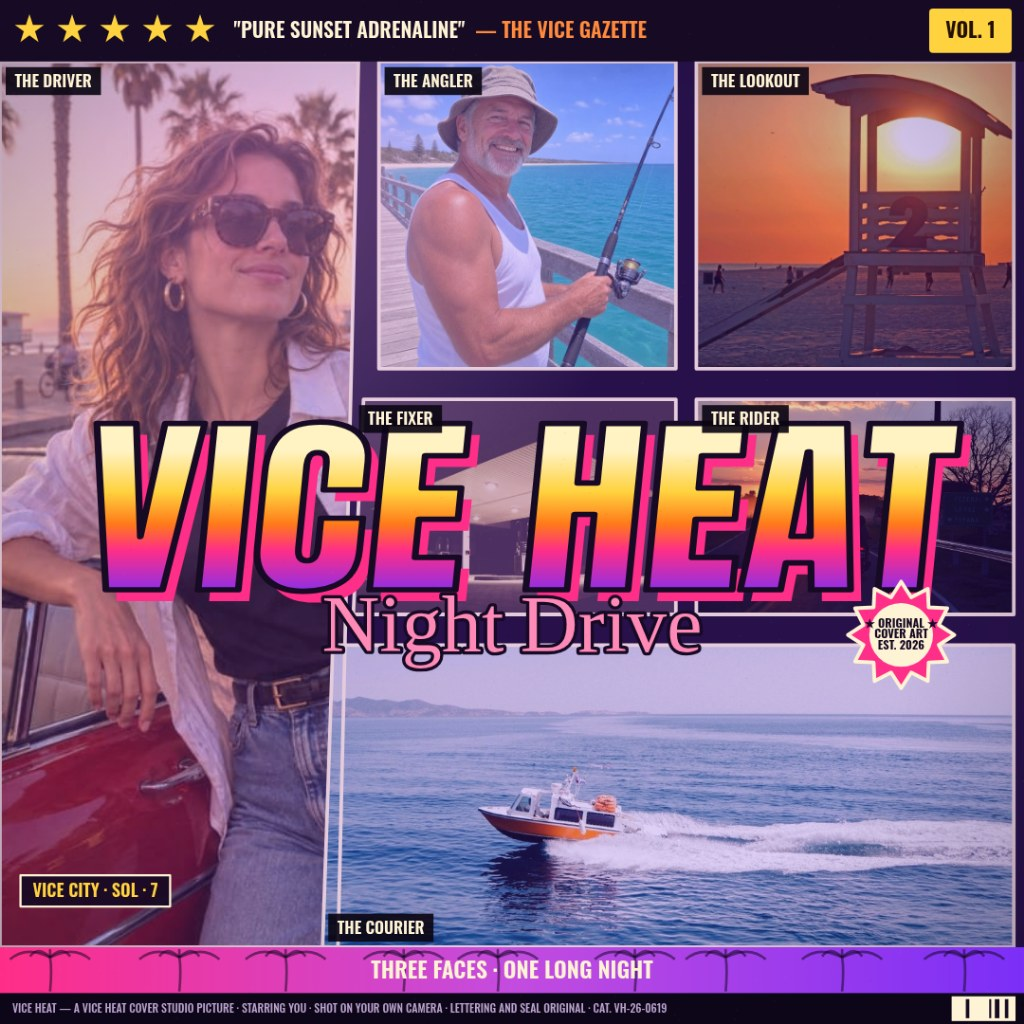
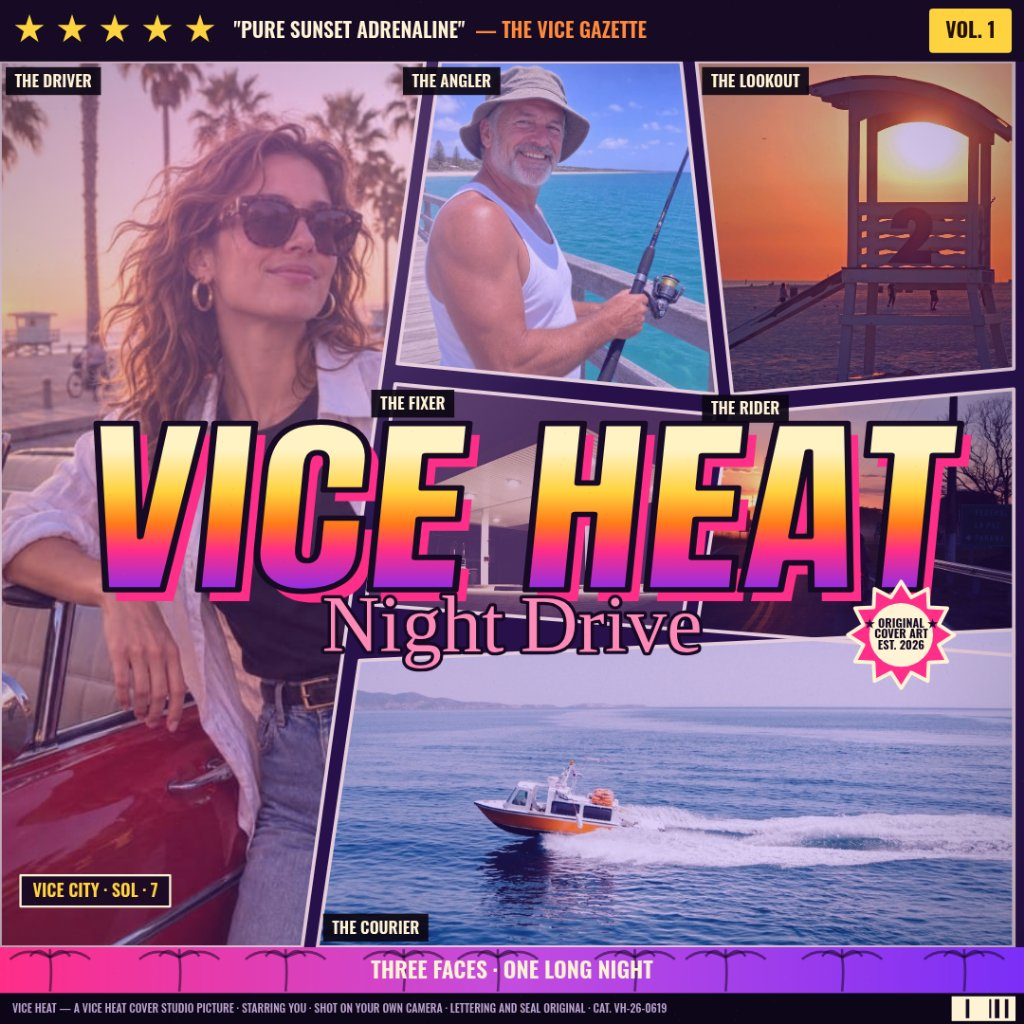
Cover v4.1: slanted trapezoid panels, no plain rectangles

diff --git a/app/src/cover.js b/app/src/cover.js
@@ -107,30 +107,30 @@ export function buildPanels(layout, size) {
   if (layout === 'hero') {
     if (size === 'portrait') {
       return [
-        panel(0, [[0, 0.06], [0.98, 0.06], [0.98, 0.62], [0, 0.62]]),
-        panel(1, [[0, 0.63], [0.48, 0.63], [0.48, 0.80], [0, 0.80]]),
-        panel(2, [[0.50, 0.63], [0.98, 0.63], [0.98, 0.80], [0.50, 0.80]]),
-        panel(3, [[0, 0.81], [0.48, 0.81], [0.48, 0.925], [0, 0.925]]),
-        panel(4, [[0.50, 0.81], [0.98, 0.81], [0.98, 0.925], [0.50, 0.925]]),
+        panel(0, [[0, 0.06], [0.98, 0.06], [0.98, 0.645], [0, 0.60]]),
+        panel(1, [[0, 0.618], [0.47, 0.64], [0.52, 0.815], [0, 0.79]]),
+        panel(2, [[0.485, 0.64], [0.98, 0.663], [0.98, 0.79], [0.535, 0.815]]),
+        panel(3, [[0, 0.808], [0.50, 0.832], [0.455, 0.925], [0, 0.925]]),
+        panel(4, [[0.515, 0.832], [0.98, 0.808], [0.98, 0.925], [0.47, 0.925]]),
       ];
     }
     return [
-      panel(0, [[0, 0.06], [0.35, 0.06], [0.33, 0.925], [0, 0.925]]),
-      panel(1, [[0.37, 0.06], [0.66, 0.06], [0.66, 0.36], [0.37, 0.36]]),
-      panel(2, [[0.68, 0.06], [0.99, 0.06], [0.99, 0.36], [0.68, 0.36]]),
-      panel(3, [[0.355, 0.39], [0.66, 0.39], [0.66, 0.60], [0.345, 0.60]]),
-      panel(4, [[0.68, 0.39], [0.99, 0.39], [0.99, 0.60], [0.68, 0.60]]),
-      panel(5, [[0.325, 0.63], [0.99, 0.63], [0.99, 0.925], [0.315, 0.925]], 'bottom', [0.5, 0.59]),
+      panel(0, [[0, 0.06], [0.415, 0.06], [0.295, 0.925], [0, 0.925]]),
+      panel(1, [[0.43, 0.06], [0.665, 0.06], [0.70, 0.385], [0.388, 0.355]]),
+      panel(2, [[0.68, 0.06], [0.99, 0.06], [0.99, 0.36], [0.715, 0.385]]),
+      panel(3, [[0.386, 0.375], [0.698, 0.405], [0.665, 0.615], [0.357, 0.59]]),
+      panel(4, [[0.713, 0.405], [0.99, 0.38], [0.99, 0.64], [0.68, 0.615]]),
+      panel(5, [[0.351, 0.645], [0.99, 0.615], [0.99, 0.925], [0.31, 0.925]], 'bottom', [0.5, 0.59]),
     ];
   }
   if (layout === 'comic6') {
     return [
-      panel(0, [[0, 0.06], [0.335, 0.06], [0.325, 0.48], [0, 0.48]]),
-      panel(1, [[0.345, 0.06], [0.665, 0.06], [0.655, 0.48], [0.335, 0.48]]),
-      panel(2, [[0.675, 0.06], [0.99, 0.06], [0.99, 0.48], [0.665, 0.48]]),
-      panel(3, [[0, 0.50], [0.325, 0.50], [0.315, 0.925], [0, 0.925]]),
-      panel(4, [[0.335, 0.50], [0.655, 0.50], [0.645, 0.925], [0.325, 0.925]]),
-      panel(5, [[0.665, 0.50], [0.99, 0.50], [0.99, 0.925], [0.655, 0.925]], 'bottom'),
+      panel(0, [[0, 0.06], [0.345, 0.06], [0.315, 0.483], [0, 0.47]]),
+      panel(1, [[0.36, 0.06], [0.675, 0.06], [0.705, 0.496], [0.33, 0.483]]),
+      panel(2, [[0.69, 0.06], [0.99, 0.06], [0.99, 0.51], [0.72, 0.496]]),
+      panel(3, [[0, 0.49], [0.325, 0.503], [0.36, 0.925], [0, 0.925]]),
+      panel(4, [[0.34, 0.503], [0.665, 0.516], [0.63, 0.925], [0.375, 0.925]]),
+      panel(5, [[0.68, 0.516], [0.99, 0.53], [0.99, 0.925], [0.645, 0.925]], 'bottom'),
     ];
   }
   if (layout === 'nine') {
@@ -152,23 +152,23 @@ export function buildPanels(layout, size) {
   }
   if (layout === 'two') {
     return [
-      panel(0, [[0, 0.06], [0.50, 0.06], [0.48, 0.925], [0, 0.925]]),
-      panel(1, [[0.52, 0.06], [1, 0.06], [1, 0.925], [0.50, 0.925]]),
+      panel(0, [[0, 0.06], [0.55, 0.06], [0.50, 0.50], [0.44, 0.925], [0, 0.925]]),
+      panel(1, [[0.565, 0.06], [1, 0.06], [1, 0.925], [0.455, 0.925], [0.515, 0.50]]),
     ];
   }
   if (layout === 'three') {
     return [
-      panel(0, [[0, 0.06], [0.50, 0.06], [0.48, 0.925], [0, 0.925]]),
-      panel(1, [[0.52, 0.06], [1, 0.06], [1, 0.48], [0.50, 0.48]]),
-      panel(2, [[0.50, 0.50], [1, 0.50], [1, 0.925], [0.52, 0.925]]),
+      panel(0, [[0, 0.06], [0.55, 0.06], [0.50, 0.50], [0.44, 0.925], [0, 0.925]]),
+      panel(1, [[0.565, 0.06], [1, 0.06], [1, 0.46], [0.515, 0.485]]),
+      panel(2, [[0.515, 0.505], [1, 0.48], [1, 0.925], [0.455, 0.925]]),
     ];
   }
   // four
   return [
-    panel(0, [[0, 0.06], [0.49, 0.06], [0.49, 0.48], [0, 0.48]]),
-    panel(1, [[0.51, 0.06], [1, 0.06], [1, 0.48], [0.51, 0.48]]),
-    panel(2, [[0, 0.50], [0.49, 0.50], [0.49, 0.925], [0, 0.925]]),
-    panel(3, [[0.51, 0.50], [1, 0.50], [1, 0.925], [0.51, 0.925]]),
+    panel(0, [[0, 0.06], [0.52, 0.06], [0.46, 0.49], [0, 0.465]]),
+    panel(1, [[0.535, 0.06], [1, 0.06], [1, 0.44], [0.475, 0.475]]),
+    panel(2, [[0, 0.485], [0.445, 0.51], [0.52, 0.925], [0, 0.925]]),
+    panel(3, [[0.46, 0.495], [1, 0.46], [1, 0.925], [0.535, 0.925]]),
   ];
 }
 
